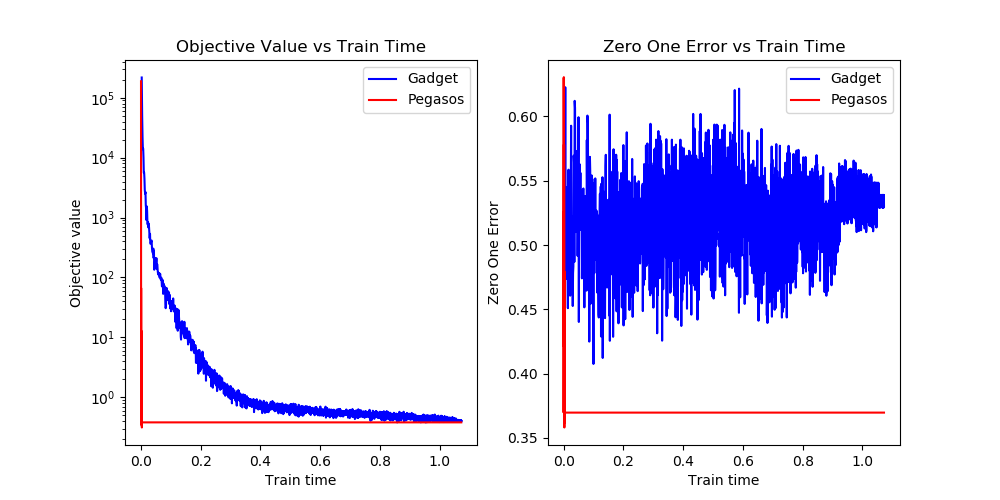
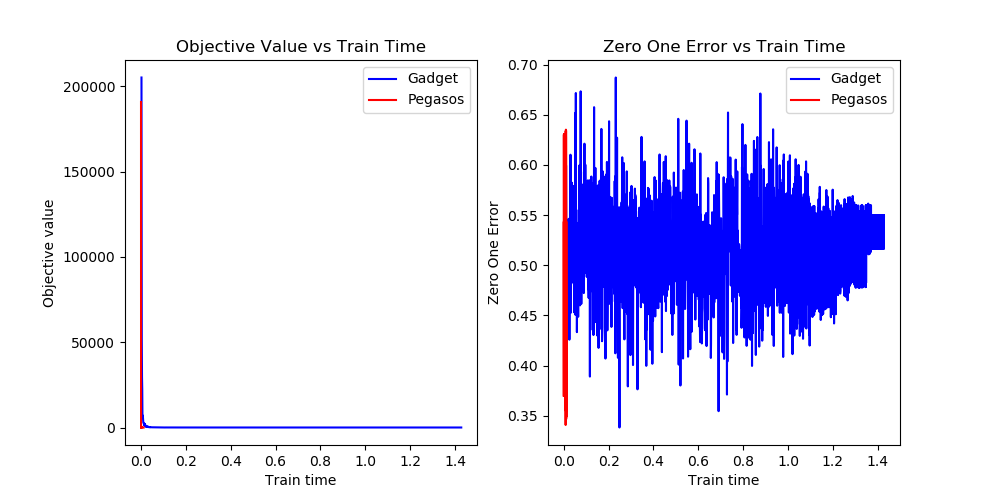
Updated static code

diff --git a/src/peersim/gossip/CentPegasos.java b/src/peersim/gossip/CentPegasos.java
@@ -41,7 +41,7 @@ public class CentPegasos {
 		// Evaluate
         double[] spegasosPred=new double[testingSet.numInstances()];
 		 double[] actual=new double[testingSet.numInstances()];
-		 int acc=0; 
+		 double acc=0; 
 		 int clIndex = testingSet.classIndex();
 		 System.out.println("Class index: " + clIndex);
 		 System.out.println("Num test attributes: " + testingSet.numAttributes());
@@ -55,7 +55,7 @@ public class CentPegasos {
 			 }
         
         }
-		 double testAccuracy = (double)acc/testingSet.numInstances();
+		 double testAccuracy = acc/(double)testingSet.numInstances();
 		 
 		 return testAccuracy;
 		
@@ -78,6 +78,7 @@ public class CentPegasos {
 		long trainTimePerIter, startTime;
 		int converged = 0;
 		double accuracy = 0.0;
+		final int NUM_CONVERGE_ITERS = 10;
 	    
 		// Read the data
 		startTime = System.nanoTime();
@@ -107,7 +108,7 @@ public class CentPegasos {
 	    // Initialize the csv file to store the results
 	    String csv_filename = parentPath + "/" + "run" + numRun +"/cent_pegasos_results" + ".csv";
 		String headerString = "iter,obj_value,loss_value,wt_norm,obj_value_difference,converged,";
-		headerString += "num_converge_iters,accuracy,zero_one_error,train_time,read_init_time\n";
+		headerString += "num_converge_iters,accuracy,zero_one_error,train_time,read_init_time,m_t\n";
 		BufferedWriter bw = new BufferedWriter(new FileWriter(csv_filename));
   		bw.write(headerString);
   		bw.close();
@@ -134,7 +135,7 @@ public class CentPegasos {
 	          opString = "";
         	  opString += iter + "," + cModel.m_obj_value + "," + cModel.m_loss_value+","+cModel.wt_norm+","+cModel.m_obj_value_diff+",";
 	          opString += converged + "," + cModel.num_converge_iters +"," + accuracy + "," + (1.0 - accuracy);
-	          opString += ","+ trainTimeInDouble + "," + readInitTimeInDouble + "\n"; 
+	          opString += ","+ trainTimeInDouble + "," + readInitTimeInDouble + "," + cModel.m_t + "\n"; 
 	          System.out.println(opString);
 	        // Write to file
 	  		bw = new BufferedWriter(new FileWriter(csv_filename, true));
@@ -144,7 +145,7 @@ public class CentPegasos {
 	  		
 	        	// Check if the algorithm has converged
 	  				
-				     if(cModel.num_converge_iters == 10) {
+				     if(cModel.num_converge_iters == NUM_CONVERGE_ITERS) {
 				    	 converged = 1; 
 				     }
 				    

diff --git a/scripts/plot_results.py b/scripts/plot_results.py
@@ -203,7 +203,7 @@ if __name__ == "__main__":
     
     # equalize the length of both the dataframes, according to train time.
 
-
+    """
     if len(df_pegasos_run_means) > len(df_gadget_run_means):
         max_len = len(df_pegasos_run_means)
         min_len = len(df_gadget_run_means)
@@ -232,7 +232,7 @@ if __name__ == "__main__":
         df_pegasos_run_means[args.xtype + "_time"].iloc[min_len:max_len] = time_vals
     assert len(df_gadget_run_means) == len(df_pegasos_run_means)
     assert len(df_gadget_run_stds) == len(df_pegasos_run_stds)
-
+    """
     # Plot results
     fig, ax = plot_gadget_results(df_gadget_run_means, df_gadget_run_stds, type=args.xtype)
     fig, ax = plot_pegasos_results(df_pegasos_run_means, df_pegasos_run_stds, fig, ax, type=args.xtype)
@@ -241,9 +241,9 @@ if __name__ == "__main__":
     #fig1.savefig(os.path.join(args.data_folder, "gadget_objective.png"))
     # Set the legend and scale
 
-    ax[0].set_yscale('log')
+    #ax[0].set_yscale('log')
     #ax[1].set_yscale('log')
-    ax[0].set_xscale('log')
+    #ax[0].set_xscale('log')
     #ax[1].set_xscale('log')
     
     ax[0].legend()

diff --git a/src/peersim/gossip/GadgetProtocol.java b/src/peersim/gossip/GadgetProtocol.java
@@ -166,7 +166,7 @@ public class GadgetProtocol implements CDProtocol {
 		// Evaluate
         double[] spegasosPred=new double[testingSet.numInstances()];
 		 double[] actual=new double[testingSet.numInstances()];
-		 int acc=0; 
+		 double acc=0; 
 		 int clIndex = testingSet.classIndex();
 		 System.out.println("Class index: " + clIndex);
 		 System.out.println("Num test attributes: " + testingSet.numAttributes());
@@ -185,7 +185,7 @@ public class GadgetProtocol implements CDProtocol {
 			 }
         
         }
-		 double testAccuracy = (double)acc/testingSet.numInstances();
+		 double testAccuracy = acc/(double)testingSet.numInstances();
 		 System.out.println("Accuracy "+(double)acc/testingSet.numInstances());
 		 return testAccuracy;
 		

diff --git a/src/weka/classifiers/functions/SPegasos.java b/src/weka/classifiers/functions/SPegasos.java
@@ -120,7 +120,7 @@ public class SPegasos extends Classifier
   public int con_iter_limit = 10;
   public double wt_norm = 0.0;
   public double m_loss_value = 0.0;
-  public double EPSILON_VAL = 0.01;
+  public double EPSILON_VAL = 0.001;
   
    
   /** Holds the current iteration number */

diff --git a/src/weka/classifiers/functions/SPegasosGadget.java b/src/weka/classifiers/functions/SPegasosGadget.java
@@ -124,7 +124,7 @@ public class SPegasosGadget extends Classifier
   public double wt_norm = 0.0;
   public double m_loss_value = 0.0;
   public int dimension = 0;
-  public double EPSILON_VAL = 0.01;
+  public double EPSILON_VAL = 0.001;
   public int num_converge_iters = 0;
   
   
